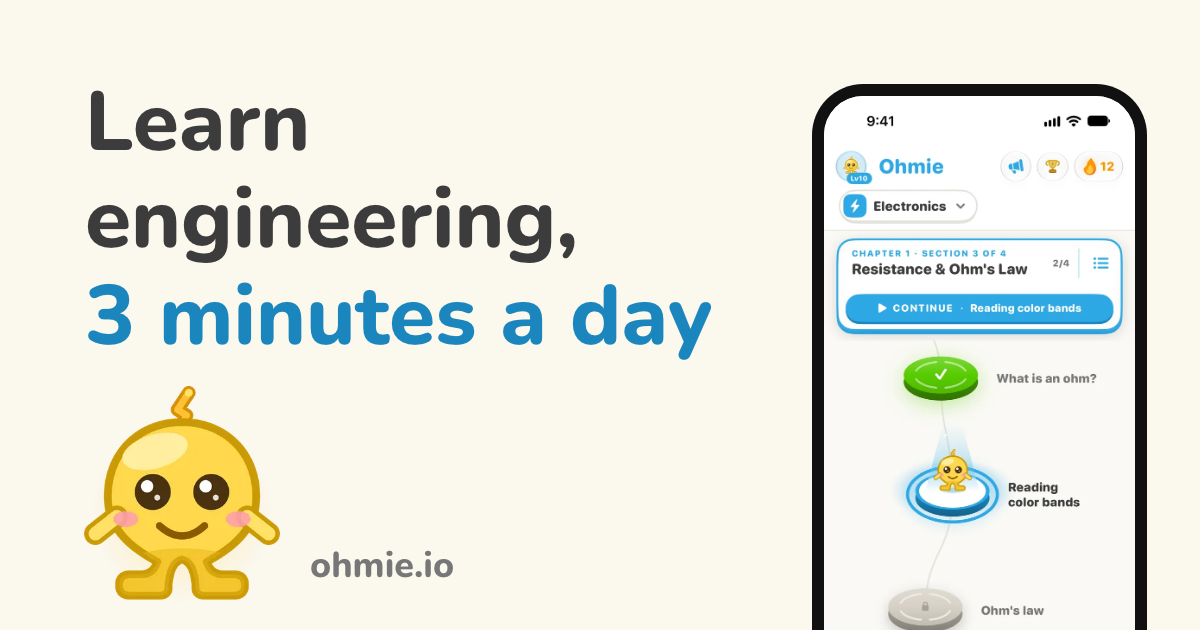
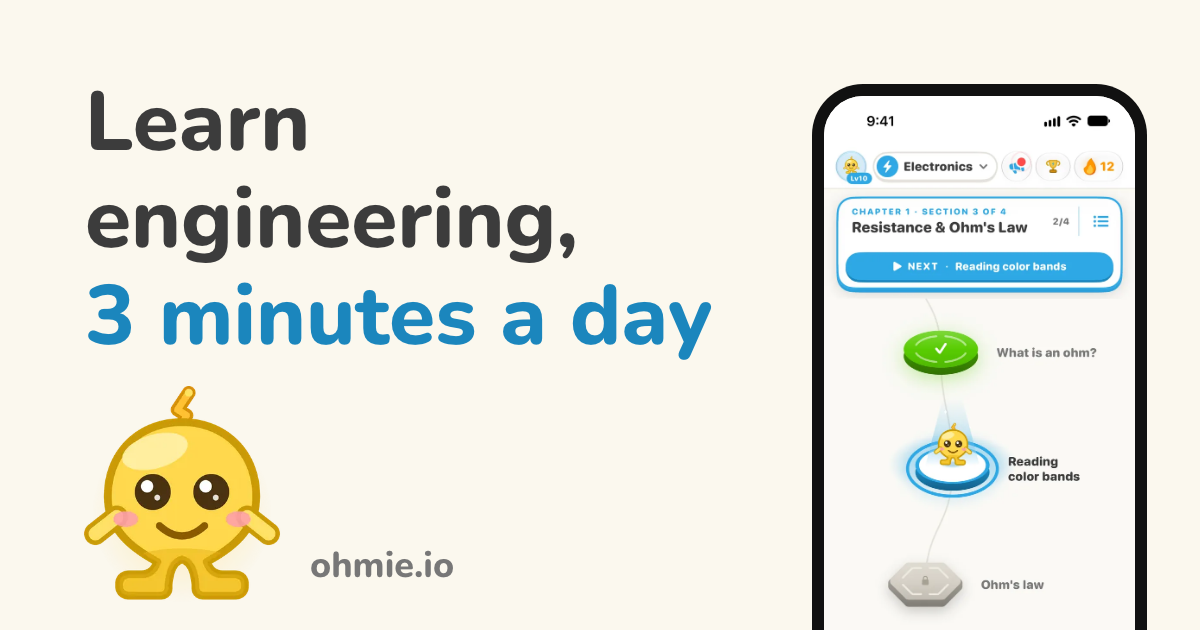
ohmie.io: the app pictures come from 2.0.3
Captured from a simulator build of the 2.0.3 code on an iPhone 17 (same size as the 2.0.1 pictures), light mode, 9:41 status bar, in states a learner reaches:
- Hero and the link card: Home with 2.0.3's one-row header, Chapter 1 Section 3 of 4, NEXT · Reading color bands (cap-01-home-203-2x.webp)
- The roadmap row: the Ohmie tab's first screen, "What should we work on today?" over Roadmap, Quiz, Flashcards and "Ask me anything…" (cap-203-ohmie-tab-2x.webp); 2.0.3 no longer shows the switch screen
- The projects row: the Projects tab with Ohmie World's card ("Light your first LED in one minute.") and the two builds (cap-203-projects-2x.webp)
- The Streak page picture is unchanged: 2.0.3 draws it the same way
The 2.0.1 pictures stay in assets one more deploy, for pages opened or cached before this one.

Claude-Session: https://claude.ai/code/session_01ABtqdNyDrwjcRwxVmMrCEN

Changed region(s): [[0.6783, 0.2413, 0.9558, 0.8444], [0.74, 0.8746, 0.8633, 1.0]]

diff --git a/index.html b/index.html
@@ -30,8 +30,8 @@
   <link rel="icon" type="image/png" href="assets/favicon.png?v=20261105">
   <link rel="apple-touch-icon" href="assets/apple-touch-icon.png?v=20261105">
 
-  <!-- hero capture: the 2.0.1 home screen -->
-  <link rel="preload" as="image" href="assets/cap-01-home-201-2x.webp" fetchpriority="high">
+  <!-- hero capture: the 2.0.3 home screen -->
+  <link rel="preload" as="image" href="assets/cap-01-home-203-2x.webp" fetchpriority="high">
 
   <link rel="preload" as="font" type="font/woff2" href="assets/fonts/nunito-latin-var.woff2" crossorigin>
 
@@ -86,7 +86,7 @@
       <div class="glow" aria-hidden="true"></div>
       <div class="phone-wrap">
         <div class="phone">
-          <img src="assets/cap-01-home-201-2x.webp" alt="Home: the Electronics course, Chapter 1 Section 3 of 4, Resistance &amp; Ohm's Law, a Continue button for Reading color bands, and the lesson path with Ohmie standing on the current lesson" width="720" height="1565" fetchpriority="high" decoding="async">
+          <img src="assets/cap-01-home-203-2x.webp" alt="Home: the Electronics course, Chapter 1 Section 3 of 4, Resistance &amp; Ohm's Law, a Next button for Reading color bands, and the lesson path with Ohmie standing on the current lesson" width="720" height="1565" fetchpriority="high" decoding="async">
         </div>
         <img src="assets/ohmie-happy.webp" alt="" class="hero-mascot" id="heroMascotImg" width="150" height="145" decoding="async">
         <div class="scene scene-hero" data-artboard="Ohmie Hero" data-machine="Scene" data-start="load" data-hide="#heroMascotImg" aria-hidden="true"><canvas></canvas></div>
@@ -177,7 +177,7 @@
       <div class="row-art row-art-phone">
         <div class="glow" aria-hidden="true"></div>
         <div class="phone-wrap">
-          <div class="phone"><img src="assets/cap-201-builder-2x.webp" alt="Ohmie's tab: Hi there! What should we switch on today? Four switches on a circuit, Build a drone, Practice for my circuits test, Build my own roadmap and Learn Arduino, over a field that says Ask me anything else" width="720" height="1565" loading="lazy" decoding="async"></div>
+          <div class="phone"><img src="assets/cap-203-ohmie-tab-2x.webp" alt="The Ohmie tab: Ohmie on a glowing pad asks What should we work on today? over the buttons Roadmap, Quiz and Flashcards and a field that says Ask me anything" width="720" height="1565" loading="lazy" decoding="async"></div>
         </div>
       </div>
     </article>
@@ -250,7 +250,7 @@
       <div class="row-art row-art-phone">
         <div class="glow" aria-hidden="true"></div>
         <div class="phone-wrap">
-          <div class="phone"><img src="assets/cap-201-projects-2x.webp" alt="The Projects tab: Ohmie World with an Enter World button, then Build Real Circuits and Build Your First PCB" width="720" height="1565" loading="lazy" decoding="async"></div>
+          <div class="phone"><img src="assets/cap-203-projects-2x.webp" alt="The Projects tab: Ohmie World with an Enter World button, then Build Real Circuits and Build Your First PCB" width="720" height="1565" loading="lazy" decoding="async"></div>
         </div>
       </div>
     </article>
